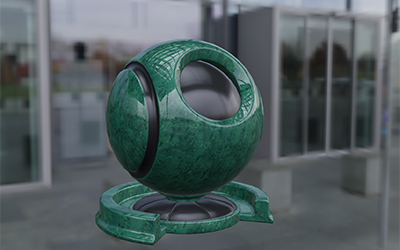
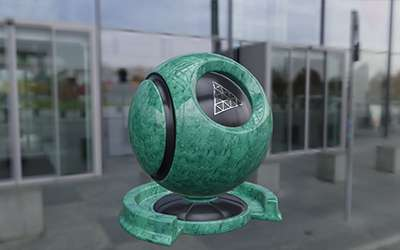
up

diff --git a/examples/webgl_random_uv.html b/examples/webgl_random_uv.html
@@ -51,15 +51,19 @@
 
 				scene = new THREE.Scene();
 
+				renderer = new THREE.WebGLRenderer( { antialias: true } );
+				renderer.setPixelRatio( window.devicePixelRatio );
+				renderer.setSize( window.innerWidth, window.innerHeight );
+				renderer.toneMapping = THREE.ACESFilmicToneMapping;
+				renderer.toneMappingExposure = 1;
+				container.appendChild( renderer.domElement )
+
 				const map = new THREE.TextureLoader().load( 'textures/jade.jpg' );
 				map.colorSpace = THREE.SRGBColorSpace;
 				map.wrapS = map.wrapT = THREE.RepeatWrapping;
 				map.repeat.set(20,20);
 
 				const noise = new THREE.TextureLoader().load( 'textures/noise.png' );
-				//noise.colorSpace = THREE.SRGBColorSpace;
-				//noise.wrapS = map.wrapT = THREE.RepeatWrapping;
-				//noise.repeat.set(20,20);
 
 				new RGBELoader()
 					.setPath( 'textures/equirectangular/' )
@@ -69,6 +73,7 @@
 
 						scene.background = texture;
 						scene.environment = texture;
+						scene.backgroundBlurriness = 0.03;
 
 						render();
 
@@ -108,12 +113,7 @@
 
 					} );
 
-				renderer = new THREE.WebGLRenderer( { antialias: true } );
-				renderer.setPixelRatio( window.devicePixelRatio );
-				renderer.setSize( window.innerWidth, window.innerHeight );
-				renderer.toneMapping = THREE.ACESFilmicToneMapping;
-				renderer.toneMappingExposure = 1;
-				container.appendChild( renderer.domElement );
+				;
 
 				const controls = new OrbitControls( camera, renderer.domElement );
 				controls.addEventListener( 'change', render ); // use if there is no animation loop
